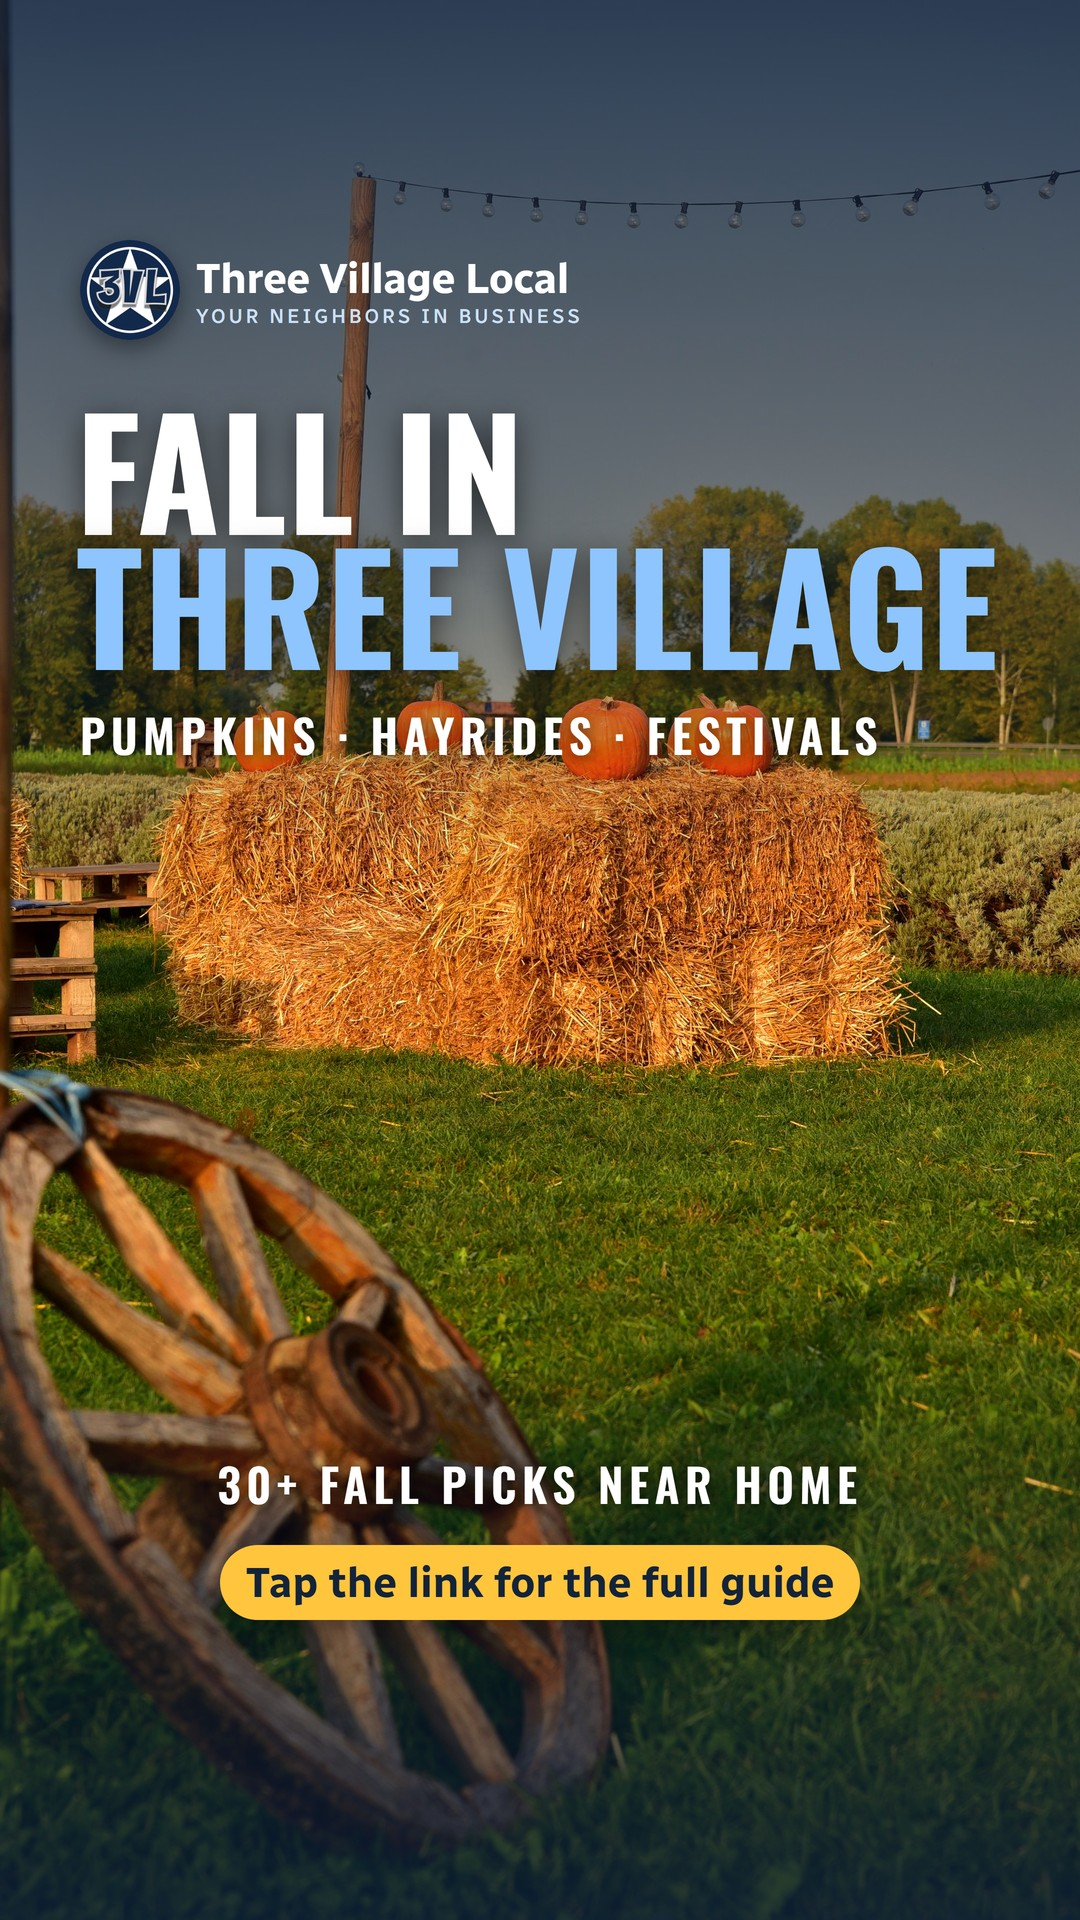
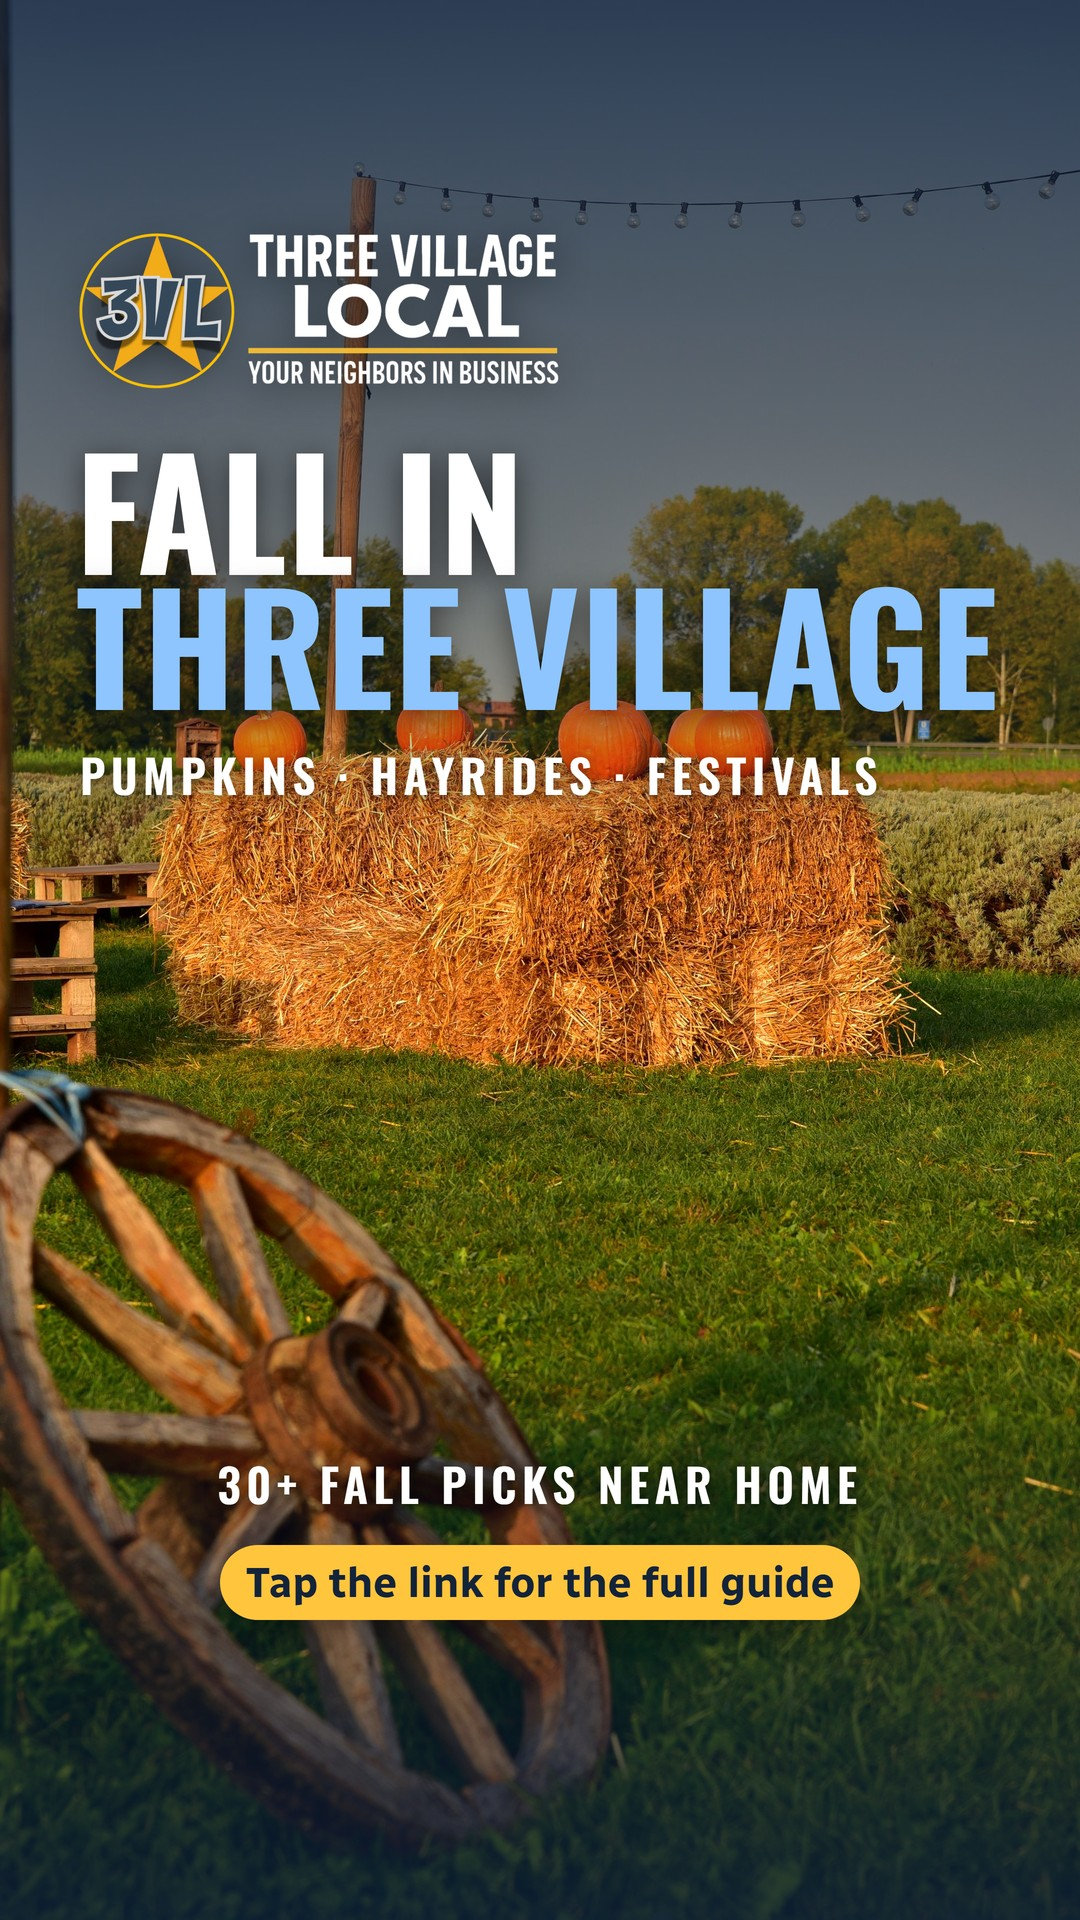
Fall share: official lockup

Changed region(s): [[0.0611, 0.125, 0.9167, 0.4375], [0.6417, 0.2812, 0.6722, 0.3125]]

diff --git a/posts/fall-2026/share/make_v3.py b/posts/fall-2026/share/make_v3.py
@@ -30,6 +30,8 @@ def crop(im, w, h, cx=.46, cy=.5):
     return im.resize((w * 2, h * 2), Image.LANCZOS)
 lg = Image.open(LOGO).convert("RGBA"); lg.thumbnail((240, 240)); mask = Image.new("L", lg.size, 0)
 from PIL import ImageDraw; ImageDraw.Draw(mask).ellipse((0, 0, lg.size[0] - 1, lg.size[1] - 1), fill=255); lg.putalpha(mask); LG = durl(lg, "PNG")
+# official 3VL lockup (owner 10/6: "use one of these"): white version for dark tops
+_lk = Image.open(r"C:\Users\Matt\Desktop\three village local 2\logo\group (44).png").convert("RGBA"); _lk.thumbnail((1100, 1100)); LOCK = durl(_lk, "PNG")
 CSS = """*{box-sizing:border-box;margin:0;padding:0}html,body{overflow:hidden;font-family:'Radio Canada',sans-serif;color:#fff}
 .c{position:relative;overflow:hidden;background:#13294b center/cover}
 .sh{position:absolute;inset:0}
@@ -57,15 +59,15 @@ if VER == "v5":   # owner 10/6: "big bold headlines. use caps."
 .cap em{display:block;font-style:normal;color:#8ec5ff}.tag{font-family:'Oswald',sans-serif;font-weight:600;text-transform:uppercase;letter-spacing:.12em;text-shadow:0 3px 14px rgba(0,0,0,.6)}"""
     T = {
      "ig": (1080, 1350, .5, """<div class="c" style="width:1080px;height:1350px;background-image:url(@@BG@@)"><div class="sh" style="background:linear-gradient(180deg,rgba(13,31,58,.78) 0%,rgba(13,31,58,.42) 34%,rgba(13,31,58,0) 52%,rgba(13,31,58,0) 72%,rgba(13,31,58,.78) 100%)"></div>
-<div class="lk" style="left:64px;top:56px"><img src="@@LG@@" width="86" height="86"><div><b style="font-size:36px">Three Village Local</b><span style="font-size:18px">Your neighbors in business</span></div></div>
-<h1 class="cap" style="position:absolute;left:62px;right:40px;top:186px;font-size:150px">Fall in<em>Three Village</em></h1>
-<div class="tag" style="position:absolute;left:66px;top:486px;font-size:40px;color:#fff">Pumpkins &middot; Hayrides &middot; Festivals</div>
+<img src="@@LOCK@@" style="position:absolute;left:52px;top:44px;width:430px;height:auto;filter:drop-shadow(0 6px 18px rgba(0,0,0,.45))">
+<h1 class="cap" style="position:absolute;left:62px;right:40px;top:226px;font-size:150px">Fall in<em>Three Village</em></h1>
+<div class="tag" style="position:absolute;left:66px;top:526px;font-size:40px;color:#fff">Pumpkins &middot; Hayrides &middot; Festivals</div>
 <div style="position:absolute;left:64px;right:64px;bottom:66px;display:flex;justify-content:space-between;align-items:center">
 <div class="tag" style="font-size:38px;color:#fff">30+ fall picks near home</div><span class="pill" style="font-size:34px">Link in bio &rarr;</span></div></div>"""),
      "story": (1080, 1920, .5, """<div class="c" style="width:1080px;height:1920px;background-image:url(@@BG@@)"><div class="sh" style="background:linear-gradient(180deg,rgba(13,31,58,.78) 0%,rgba(13,31,58,.4) 30%,rgba(13,31,58,0) 46%,rgba(13,31,58,0) 70%,rgba(13,31,58,.82) 100%)"></div>
-<div class="lk" style="left:80px;top:240px"><img src="@@LG@@" width="100" height="100"><div><b style="font-size:42px">Three Village Local</b><span style="font-size:20px">Your neighbors in business</span></div></div>
-<h1 class="cap" style="position:absolute;left:76px;right:40px;top:400px;font-size:150px">Fall in<em>Three Village</em></h1>
-<div class="tag" style="position:absolute;left:80px;top:700px;font-size:46px;color:#fff">Pumpkins &middot; Hayrides &middot; Festivals</div>
+<img src="@@LOCK@@" style="position:absolute;left:66px;top:220px;width:500px;height:auto;filter:drop-shadow(0 6px 18px rgba(0,0,0,.45))">
+<h1 class="cap" style="position:absolute;left:76px;right:40px;top:440px;font-size:150px">Fall in<em>Three Village</em></h1>
+<div class="tag" style="position:absolute;left:80px;top:740px;font-size:46px;color:#fff">Pumpkins &middot; Hayrides &middot; Festivals</div>
 <div style="position:absolute;left:80px;right:80px;bottom:300px;text-align:center"><div class="tag" style="font-size:46px;margin-bottom:28px;color:#fff">30+ fall picks near home</div><span class="pill" style="font-size:42px">Tap the link for the full guide</span></div></div>"""),
     }
 CHROME = r"C:\Program Files\Google\Chrome\Application\chrome.exe"
@@ -83,7 +85,7 @@ try:
     cmd("Page.enable")
     for k, (w, h, cx, body) in T.items():
         html = ("<html><head><meta charset=utf-8><link href='https://fonts.googleapis.com/css2?family=Radio+Canada:wght@500;600;700&family=Oswald:wght@600;700&display=swap' rel=stylesheet><style>" + CSS + "</style></head><body>"
-                + body.replace("@@LG@@", LG).replace("@@CRDIV1@@", ('<div class="cr" style="right:30px;top:640px;font-size:20px">' + SRC[2] + " &middot; 3VL drone</div>") if SRC[2] else "").replace("@@CRDIV2@@", ('<div class="cr" style="right:40px;top:1180px;font-size:24px">' + SRC[2] + " &middot; 3VL drone</div>") if SRC[2] else "").replace("@@BG@@", durl(crop(photo, w, h, cx))) + "<script>document.fonts.ready.then(function(){document.title='ready'})</script></body></html>")
+                + body.replace("@@LG@@", LG).replace("@@LOCK@@", LOCK).replace("@@CRDIV1@@", ('<div class="cr" style="right:30px;top:640px;font-size:20px">' + SRC[2] + " &middot; 3VL drone</div>") if SRC[2] else "").replace("@@CRDIV2@@", ('<div class="cr" style="right:40px;top:1180px;font-size:24px">' + SRC[2] + " &middot; 3VL drone</div>") if SRC[2] else "").replace("@@BG@@", durl(crop(photo, w, h, cx))) + "<script>document.fonts.ready.then(function(){document.title='ready'})</script></body></html>")
         fn = os.path.join(HERE, k + "-" + VER + ".html"); open(fn, "w", encoding="utf-8").write(html)
         cmd("Emulation.setDeviceMetricsOverride", width=w, height=h, deviceScaleFactor=2, mobile=False)
         cmd("Page.navigate", url="file:///" + fn.replace("\\", "/"))
